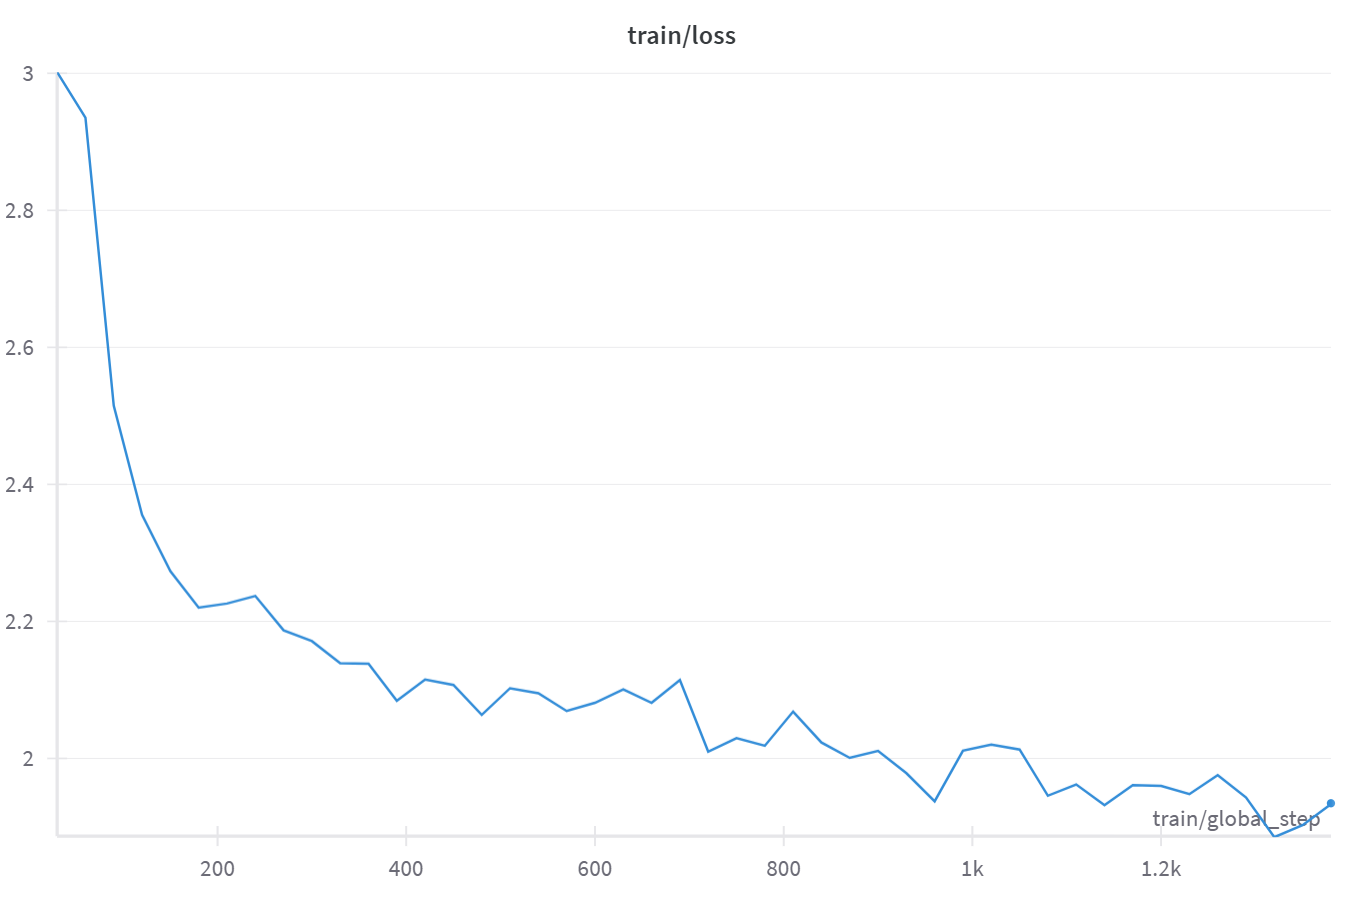
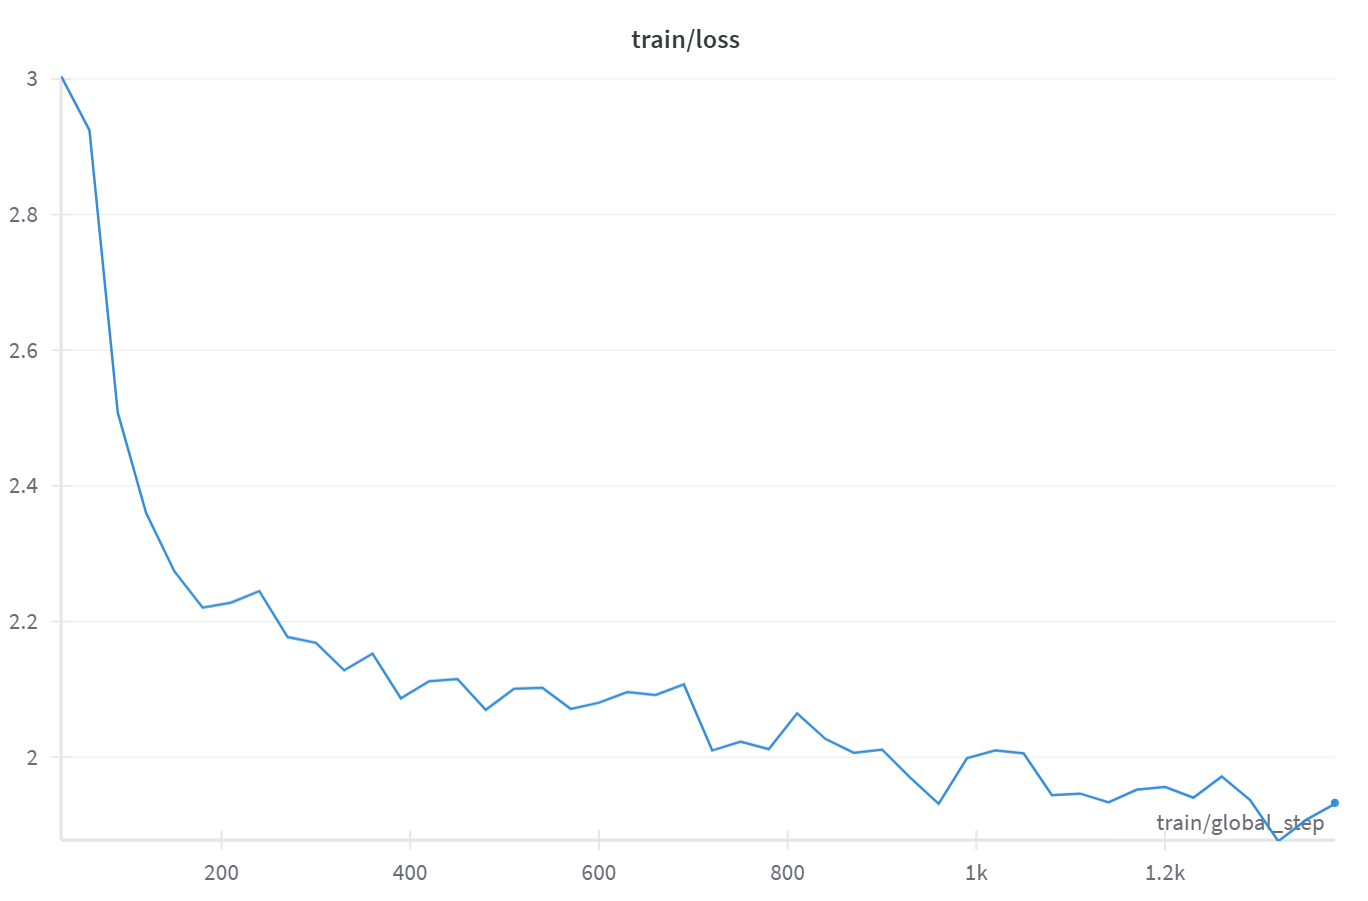
refining readme

diff --git a/app.py b/app.py
@@ -1,0 +1,83 @@
+import torch
+import gradio as gr
+from transformers import AutoTokenizer, AutoModelForSequenceClassification, pipeline
+from peft import PeftModel
+
+# Specify the same model ID pushed or trained locally
+MODEL_ID = "roberta-base-with-tweet-eval-emoji"
+
+# Load tokenizer + model
+device = 0 if torch.cuda.is_available() else -1
+tok = AutoTokenizer.from_pretrained(MODEL_ID)
+base_model = AutoModelForSequenceClassification.from_pretrained(
+    "FacebookAI/roberta-base",
+    num_labels=20,
+    ignore_mismatched_sizes=True,
+)
+model = PeftModel.from_pretrained(base_model, MODEL_ID).eval()
+
+pipe = pipeline(
+    task="text-classification",
+    model=model,
+    tokenizer=tok,
+    return_all_scores=True,
+    function_to_apply="softmax",
+    device=device,
+)
+
+# Map label IDs to emojis
+id2label = {
+    0: "❤",
+    1: "😍",
+    2: "😂",
+    3: "💕",
+    4: "🔥",
+    5: "😊",
+    6: "😎",
+    7: "✨",
+    8: "💙",
+    9: "😘",
+    10: "📷",
+    11: "🇺🇸",
+    12: "☀",
+    13: "💜",
+    14: "😉",
+    15: "💯",
+    16: "😁",
+    17: "🎄",
+    18: "📸",
+    19: "😜",
+}
+
+
+def predict_emojis(text, top_k=3):
+    """
+    Predict top k emojis for the given text.
+
+    Args:
+        text (str): Input string.
+        k (int): Number of top emojis to return.
+
+    Returns:
+        str: Space-separated top k emojis.
+    """
+    probs = pipe(text)[0]
+    top = sorted(probs, key=lambda x: x["score"], reverse=True)[:top_k]
+    return " ".join(id2label[int(d["label"].split("_")[-1])] for d in top)
+
+
+# 4) Build the Gradio interface
+demo = gr.Interface(
+    fn=predict_emojis,
+    inputs=[
+        gr.Textbox(label="Enter a X/Twitter post here"),
+        gr.Slider(minimum=1, maximum=5, step=1, label="Top-K Emojis"),
+    ],
+    outputs=gr.Textbox(label="Reply with Emojis..."),
+    title="TweetEval Emoji Reaction Coach",
+    description="Type any tweet-like text and get the top-k emoji reactions!",
+    examples=[["Sunny days!"], ["That movie was amazing."]],
+)
+
+if __name__ == "__main__":
+    demo.launch()

diff --git a/setup.py b/setup.py
@@ -15,5 +15,6 @@ setup(
         "wandb",
         "scikit-learn",
         "ipykernel",
+        "gradio",
     ],
 )

diff --git a/README.md b/README.md
@@ -6,8 +6,9 @@ Twitter Emoji Reaction LoRA is a Python project for fine-tuning a RoBERTa-based 
 
 - **LoRA Training** – fine-tune `roberta-base` with LoRA adapters on the 20-class TweetEval emoji dataset.
 - **Hugging Face Integration** – scripts can push the resulting model to the Hugging Face Hub.
-- **Evaluation Metrics** – accuracy, macro‑F1 and top‑3 accuracy via `compute_metrics`.
+- **Evaluation Metrics** – accuracy, macro‑F1 and top‑3 accuracy via `compute_metrics`. Tracked using Weights & Biases.
 - **Inference Pipeline** – predict the most likely emojis for new text from the command line.
+- **Gradio App** - ready for deployment and hosted on [Huggingface Spaces](https://huggingface.co/spaces/codinglabsong/twitter-emoji-reaction-coach-lora)
 - **Developer Tools** - tests and developer tools such as ruff and black
 
 ## Installation
@@ -85,12 +86,30 @@ bash scripts/run_inference.sh --mode predict --texts "Happy birthday!" "I love t
 
 | Metric | Value |
 | ------ | ----- |
-| Accuracy | *0.4286* |
-| F1 macro | *0.3346* |
-| Top‑3 accuracy | *0.6503* |
-| Loss | *1.9592* |
+| Accuracy | *0.4252* |
+| F1 macro | *0.3314* |
+| Top‑3 accuracy | *0.6504* |
+| Loss | *1.9516* |
 
 These results should be comparable to community benchmarks (see the [TweetEval leaderboard](https://github.com/cardiffnlp/tweeteval)).
+
+You can access this checkpoint model on [Hugging Face Hub](https://huggingface.co/codinglabsong/roberta-base-with-tweet-eval-emoji).
+
+## Running the Gradio Inference App
+This project includes an interactive Gradio app for making predictions with the trained model.
+
+1. **Obtain the Trained Model:**
+- Make sure you have the trained model directory (`roberta-base-with-tweet-eval-emoji/`). 
+- If you trained the model yourself, it should be saved automatically in the project root.
+- Otherwise, you can download it from [Releases](https://github.com/codinglabsong/twitter-emoji-reaction-coach-lora/releases/tag/v1.0.0) and add it in the project root.
+
+2. **Run the App Locally:**
+```bash
+python app.py
+```
+- The app will start locally and print a link (e.g., `http://127.0.0.1:7860`) to access the web UI in your browser.
+
+> You can also access the hosted demo on [Huggingface Spaces](https://huggingface.co/spaces/codinglabsong/twitter-emoji-reaction-coach-lora)
 
 ## Testing
 
